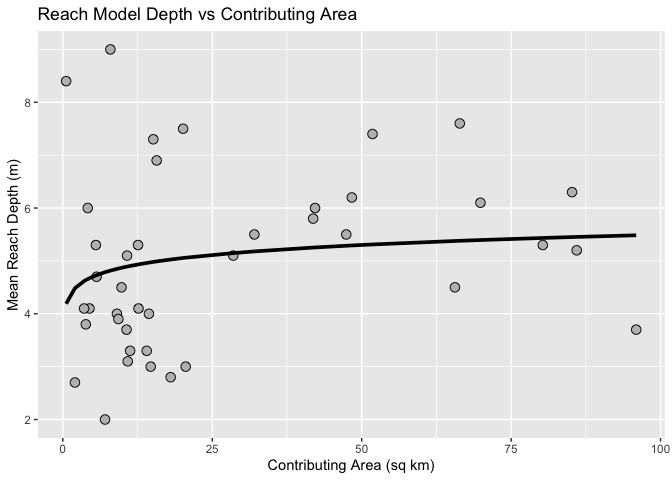
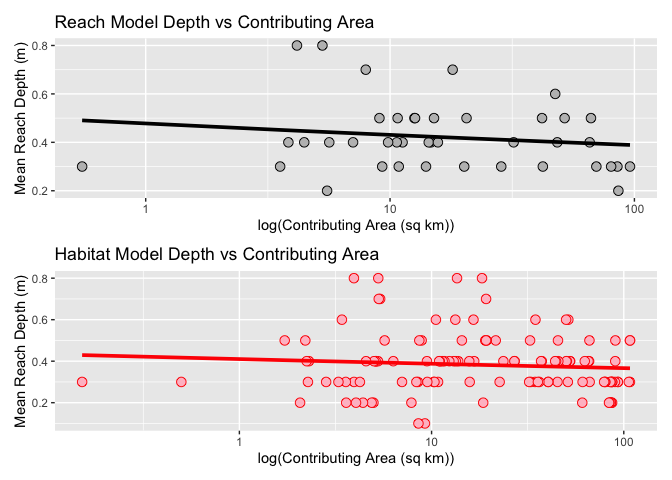
Added survey & watermask shapefiles
I added shapefiles for the ODFW surveys and the watermask imagery.

diff --git a/ChannelGeometry.md b/ChannelGeometry.md
@@ -16,8 +16,13 @@ most of the inflow to Upper Klamath Lake. Let’s take a closer look at
 the channel network.
 
 ``` r
-ggplot() +
-  geom_sf(data = sprague, col = 'blue')
+river_network <- ggplot() +
+  geom_sf(data = sprague, col = 'blue') +
+  geom_sf(data = watermask, col = 'lightblue')
+  #+ geom_sf(data = hab_survey, col = 'red') +
+  #geom_sf(data = reach_survey, col = 'green')
+
+river_network 
 ```
 
 ![](ChannelGeometry_files/figure-commonmark/unnamed-chunk-3-1.png)
@@ -28,11 +33,11 @@ them hard to obtain accurate geometry measurements. Additionally, the
 number of channels makes the river difficult to comprehensively survey.
 
 The Oregon Department of Fish and Wildlife has conducted two surveys of
-the Sprague. The reach survey focused on documenting channel geometry
-for river reaches, and the habitat survey focused on documenting channel
-geometry for different habitat units. Our goal is to use these
-measurements to improve existing channel geometry models and tailor them
-to the Sprague. Let’s examine the reach survey data.
+the Sprague in 2014. The reach survey focused on documenting channel
+geometry for river reaches, and the habitat survey focused on
+documenting channel geometry for different habitat units. Our goal is to
+use these measurements to improve existing channel geometry models and
+tailor them to the Sprague. Let’s examine the reach survey data.
 
 ``` r
 datafile <- "/Users/alexahaucke/Documents/GitHub/ChannelGeometry/Sprague_Reach_Habitat_updated.csv"
@@ -259,36 +264,31 @@ p_width_reach <- ggplot() +
   geom_point(aes(x=width_reach$area, y=width_reach$width),shape=21, size=3, color='black', fill='gray') +
   geom_line(aes(x=width_reach$area, y=width_reach$fit), linewidth=1.3, color='black') +
   labs(title="ODFW Reach Width vs Contributing Area",
-       x="Contributing Area (sq km)",
+       x="log(Contributing Area (sq km))",
        y="Mean Reach Width (m)")
-p_width_reach
-```
-
-![](ChannelGeometry_files/figure-commonmark/unnamed-chunk-12-1.png)
-
-``` r
+  
 p_width_habitat <- ggplot() +
   geom_point(aes(x=width_habitat$area, y=width_habitat$width),shape=21, size=3, color='red', fill='pink') +
   geom_line(aes(x=width_habitat$area, y=width_habitat$fit), linewidth=1.3, color='red') +
+  scale_x_log10() +
   labs(title="ODFW Habitat Width vs Contributing Area",
-       x="Contributing Area (sq km)",
+       x="log(Contributing Area (sq km))",
        y="Mean Reach Width (m)")
-p_width_habitat
-```
-
-![](ChannelGeometry_files/figure-commonmark/unnamed-chunk-12-2.png)
-
-``` r
+  
 p_width_mask <- ggplot() +
   geom_point(aes(x=width_mask$area, y=width_mask$width),shape=21, size=3, color='blue', fill='lightblue') +
   geom_line(aes(x=width_mask$area, y=width_mask$fit), linewidth=1.3, color='blue') +
+  scale_x_log10() +
   labs(title="Estimated Water Mask Width vs Contributing Area",
-       x="Contributing Area (sq km)",
+       x="log(Contributing Area (sq km))",
        y="Mean Reach Width (m)")
-p_width_mask
+
+p_width_reach / p_width_habitat / p_width_mask 
 ```
 
-![](ChannelGeometry_files/figure-commonmark/unnamed-chunk-12-3.png)
+<img
+src="ChannelGeometry_files/figure-commonmark/unnamed-chunk-12-1.png"
+width="1500" height="2000" />
 
 This shows the data and the regressions created based on them. There are
 very few measurements for the water mask widths, and they vary greatly.
@@ -394,27 +394,26 @@ depth_reach[, fit := predict(m_depth_reach, newdata = depth_reach)]
 depth_hab[, fit := predict(m_depth_hab, newdata = depth_hab)]
 
 p_depth_reach <- ggplot() +
-  geom_point(aes(x=width_reach$area, y=width_reach$width),shape=21, size=3, color='black', fill='gray') +
-  geom_line(aes(x=width_reach$area, y=width_reach$fit), linewidth=1.3, color='black') +
+  geom_point(aes(x=depth_reach$area, y=depth_reach$depth),shape=21, size=3, color='black', fill='gray') +
+  geom_line(aes(x=depth_reach$area, y=depth_reach$fit), linewidth=1.3, color='black') +
+  scale_x_log10() +
   labs(title="Reach Model Depth vs Contributing Area",
-       x="Contributing Area (sq km)",
+       x="log(Contributing Area (sq km))",
        y="Mean Reach Depth (m)")
-p_depth_reach
-```
-
-![](ChannelGeometry_files/figure-commonmark/unnamed-chunk-15-1.png)
-
-``` r
+  
 p_depth_habitat <- ggplot() +
-  geom_point(aes(x=width_habitat$area, y=width_habitat$width),shape=21, size=3, color='red', fill='pink') +
-  geom_line(aes(x=width_habitat$area, y=width_habitat$fit), linewidth=1.3, color='red') +
+  geom_point(aes(x=depth_hab$area, y=depth_hab$depth),shape=21, size=3, color='red', fill='pink') +
+  geom_line(aes(x=depth_hab$area, y=depth_hab$fit), linewidth=1.3, color='red') +
+  scale_x_log10() +
   labs(title="Habitat Model Depth vs Contributing Area",
-       x="Contributing Area (sq km)",
+       x="log(Contributing Area (sq km))",
        y="Mean Reach Depth (m)")
-p_depth_habitat
+p_depth_reach / p_depth_habitat
 ```
 
-![](ChannelGeometry_files/figure-commonmark/unnamed-chunk-15-2.png)
+<img
+src="ChannelGeometry_files/figure-commonmark/unnamed-chunk-15-1.png"
+width="1500" height="2000" />
 
 The models generally show similar results. To look at their accuracy,
 let’s compare them to another model.
@@ -459,19 +458,19 @@ To determine the differences between our values and those generated by
 this model, let’s just take a look at the value distributions.
 
 ``` r
-hist(castro_widths, xlim = c(0,10))
+castro_hist <- hist(castro_widths, xlim = c(0,10)) 
 ```
 
 ![](ChannelGeometry_files/figure-commonmark/unnamed-chunk-17-1.png)
 
 ``` r
-hist(synthetic_widths, xlim = c(0,10), breaks = 2)
+synthetic_hist <- hist(synthetic_widths, xlim = c(0,10), breaks = 2) 
 ```
 
 ![](ChannelGeometry_files/figure-commonmark/unnamed-chunk-17-2.png)
 
 ``` r
-hist(width_long$width, xlim = c(0,10))
+data_hist <- hist(width_long$width, xlim = c(0,10))
 ```
 
 ![](ChannelGeometry_files/figure-commonmark/unnamed-chunk-17-3.png)
